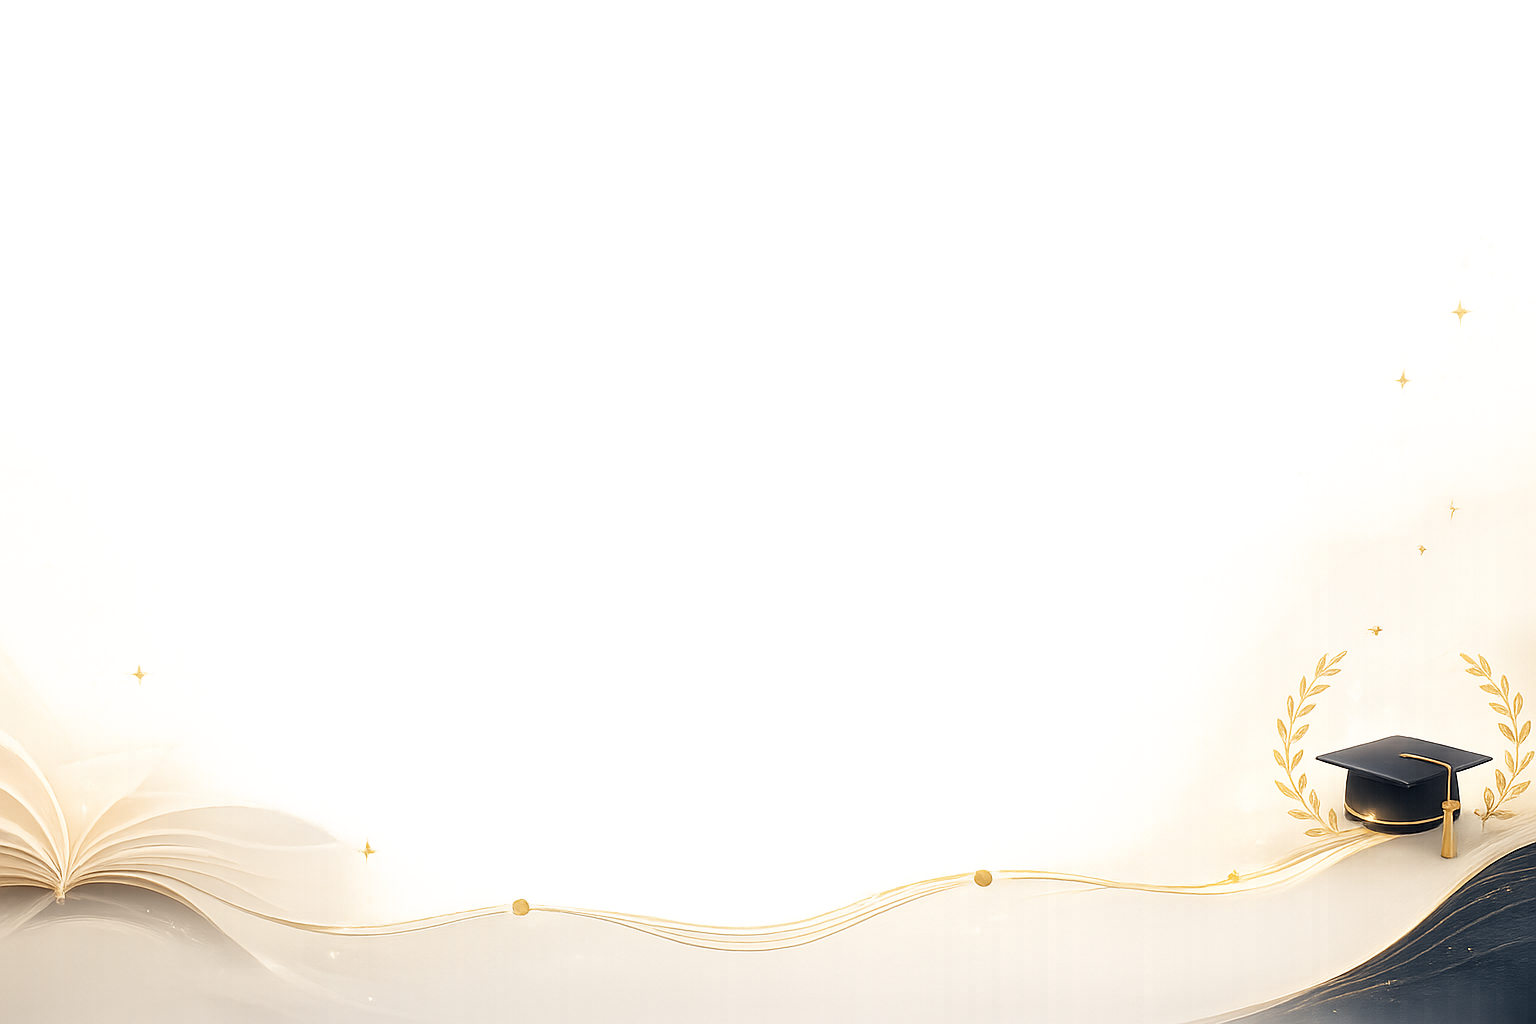
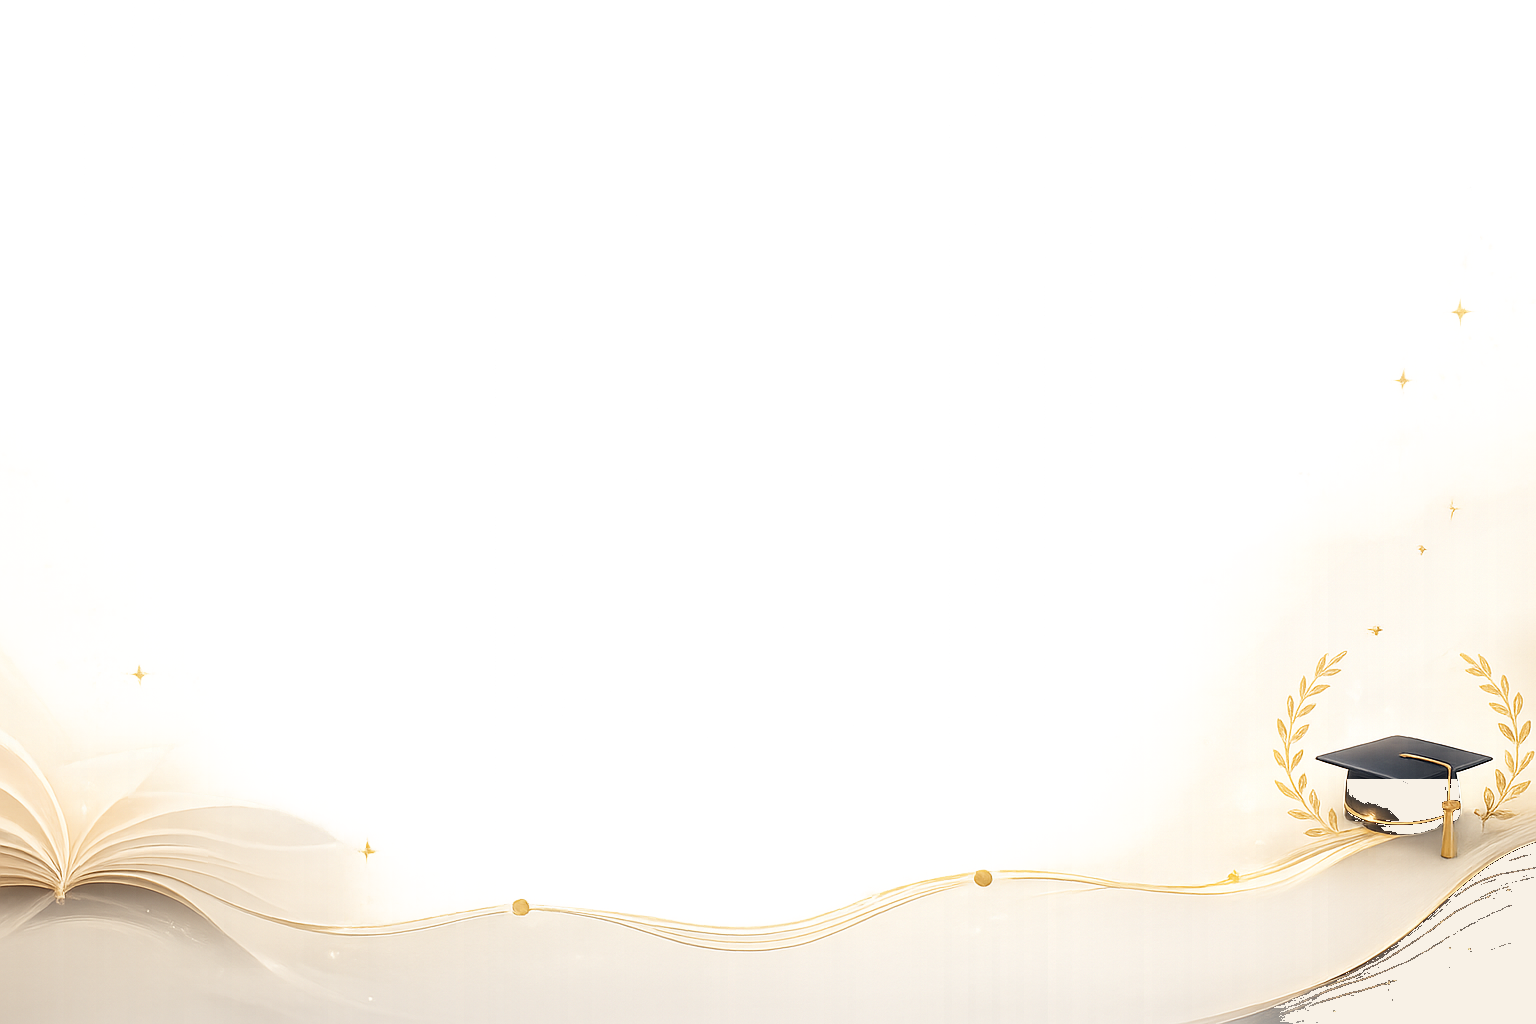
Refine English journey section layout

Changed region(s): [[0.8125, 0.8125, 1.0, 1.0], [0.875, 0.75, 0.9688, 0.8125]]

diff --git a/public/english-page/index.html b/public/english-page/index.html
@@ -275,7 +275,7 @@
 
   .year-map{
     position:relative;overflow:hidden;isolation:isolate;
-    background-color:#FFF6E8;
+    background-color:#F8F1E6;
     padding-top:0;padding-bottom:140px;
   }
   .year-map::before{
@@ -288,7 +288,7 @@
   }
   .year-map::after{
     content:"";position:absolute;left:0;right:0;top:clamp(620px,56vw,820px);height:180px;z-index:1;pointer-events:none;
-    background:linear-gradient(180deg,rgba(255,246,232,0),rgba(255,246,232,.82) 50%,#FFF6E8 100%);
+    background:linear-gradient(180deg,rgba(248,241,230,0),rgba(248,241,230,.84) 50%,#F8F1E6 100%);
   }
   .year-map.is-revealed::before{opacity:1}
   @media (prefers-reduced-motion:reduce){
@@ -299,6 +299,7 @@
     position:relative;
     min-height:clamp(520px,50vw,724px);
     display:grid;place-items:center;
+    grid-template-columns:minmax(0,1fr);
     margin:0 0 72px;
     padding:72px 28px 154px;
     text-align:center;
@@ -314,11 +315,16 @@
     opacity:.82;
   }
   .year-map .section-head h2{
+    justify-self:center;
+    width:100%;
+    max-width:none;
+    position:relative;
+    z-index:2;
     color:var(--navy);
-    max-width:1260px;
     font-size:clamp(3rem,5.7vw,5.6rem);
     line-height:1.05;
     text-wrap:balance;
+    transform:translateY(clamp(54px,6vw,96px));
   }
   .year-map .type-cursor{
     display:inline-block;width:3px;height:.82em;margin-left:4px;vertical-align:-.08em;
